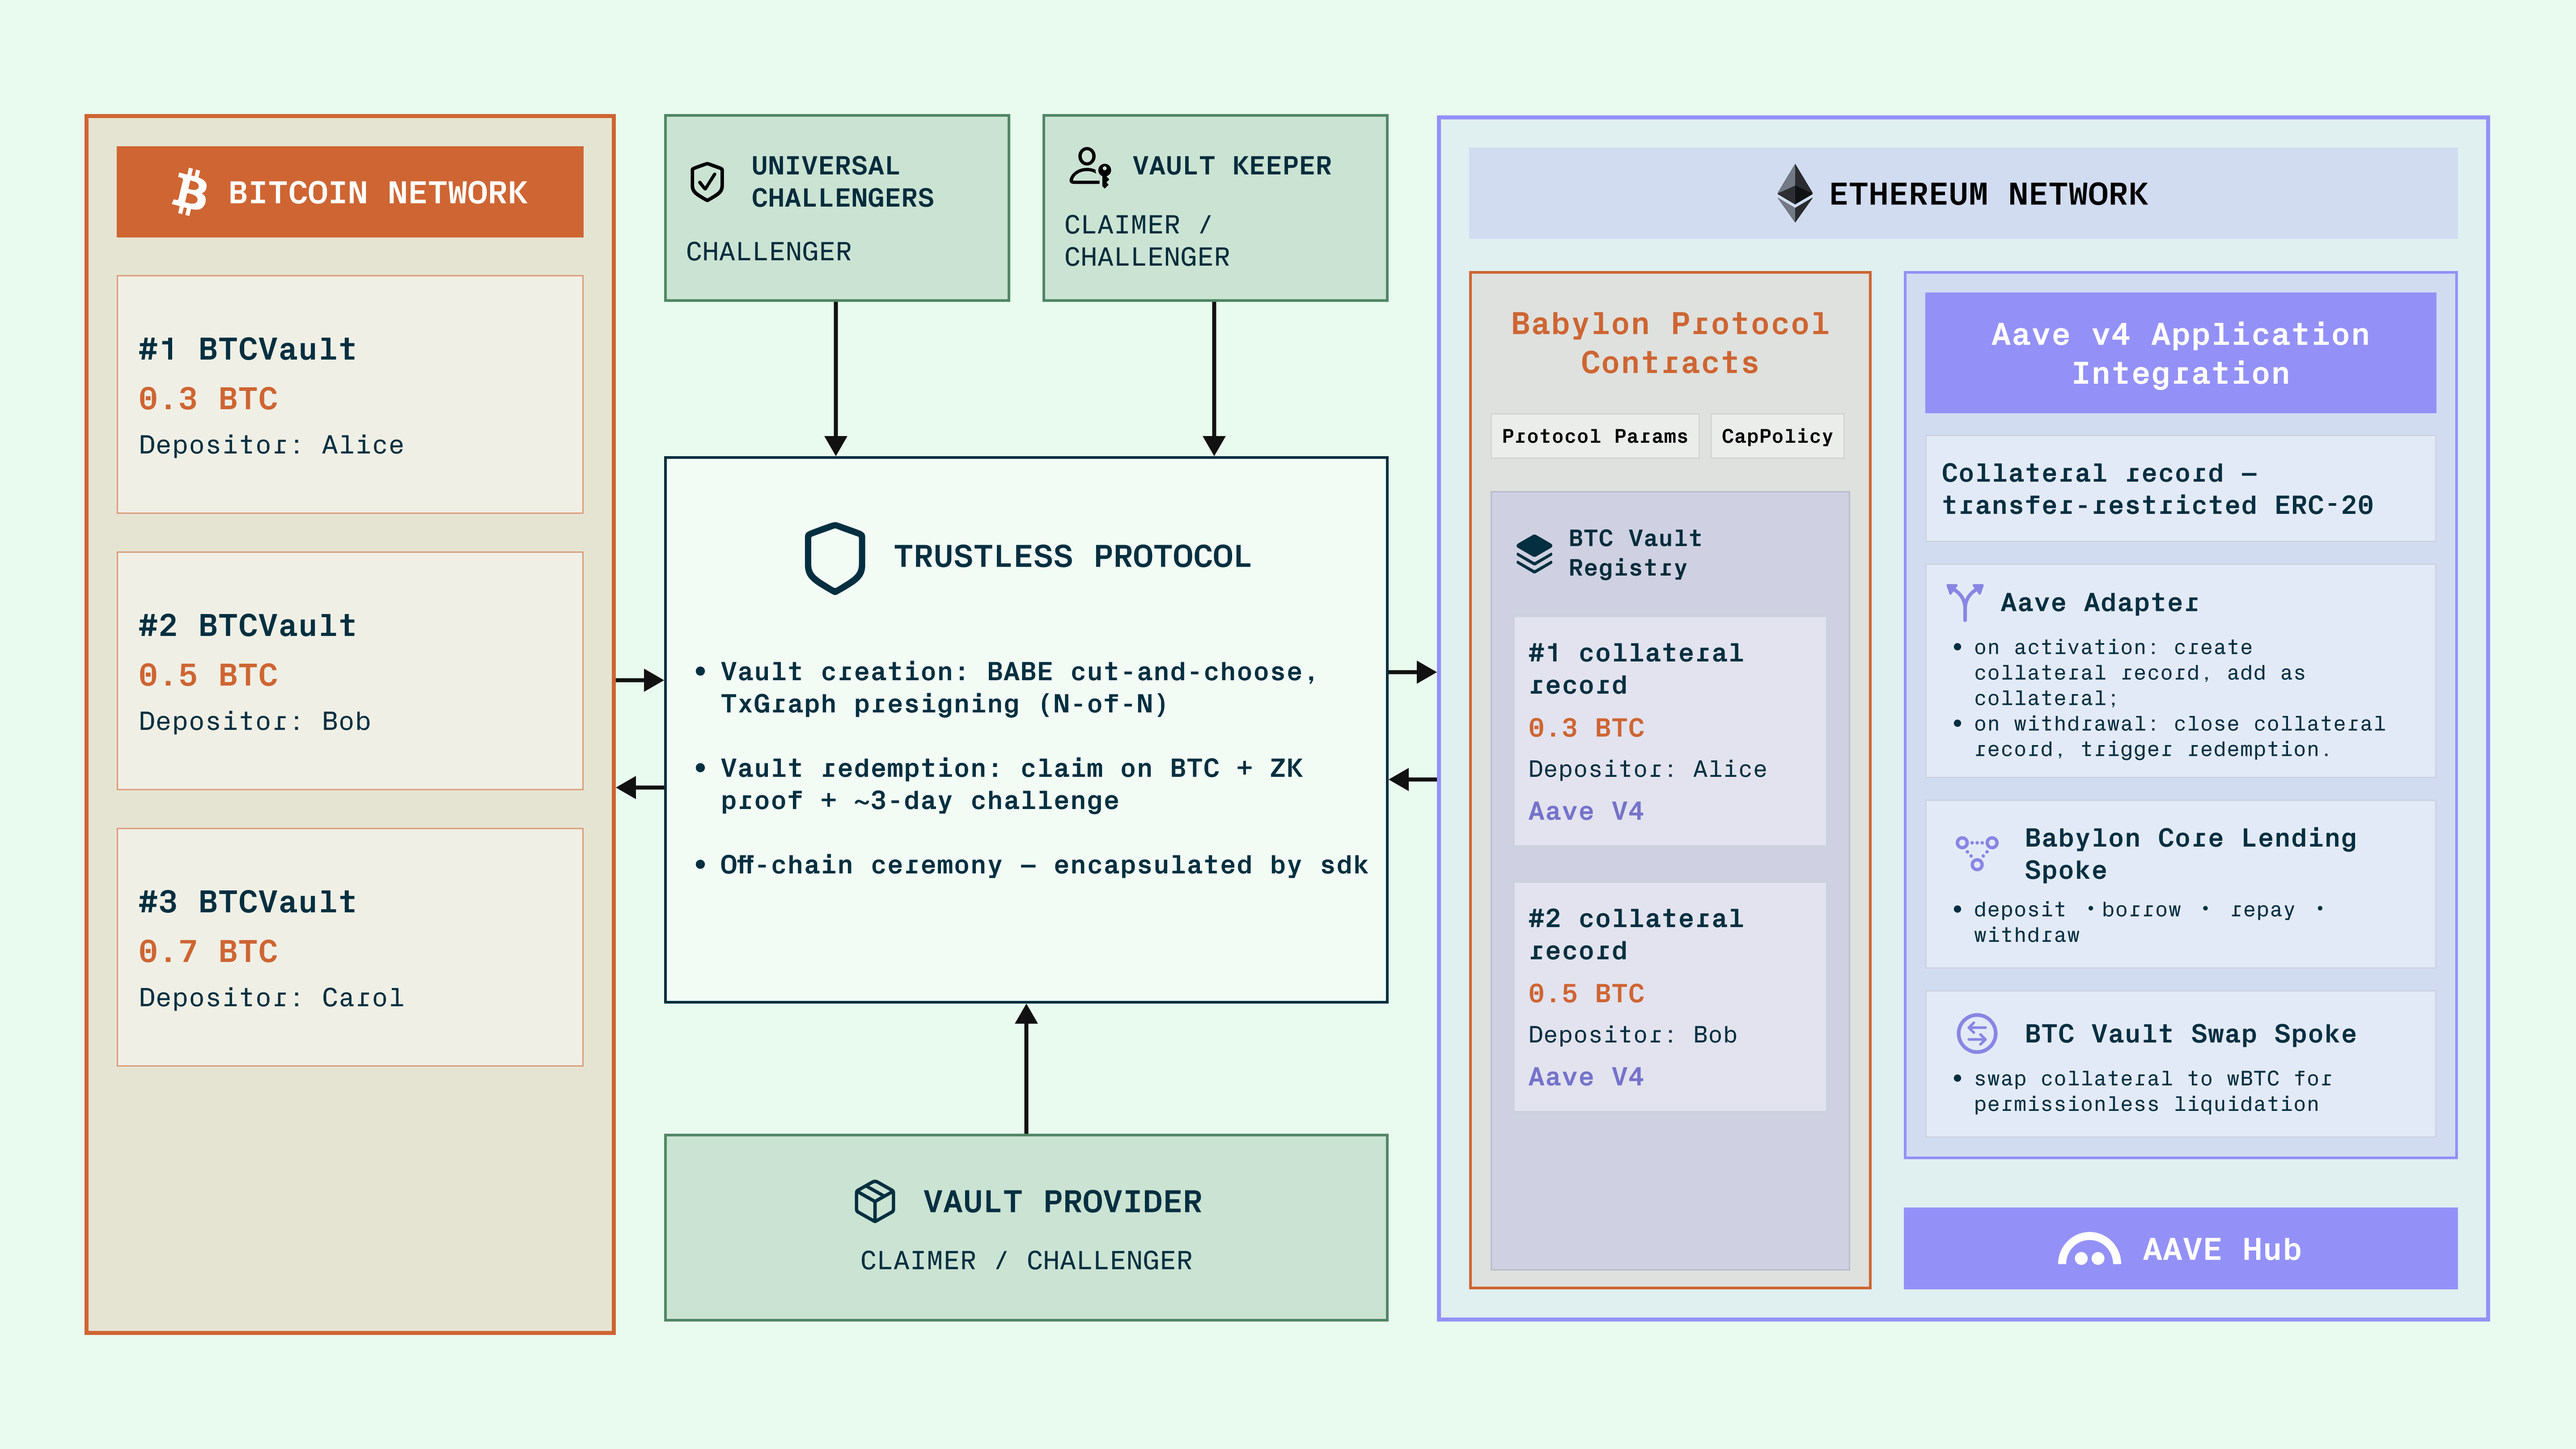
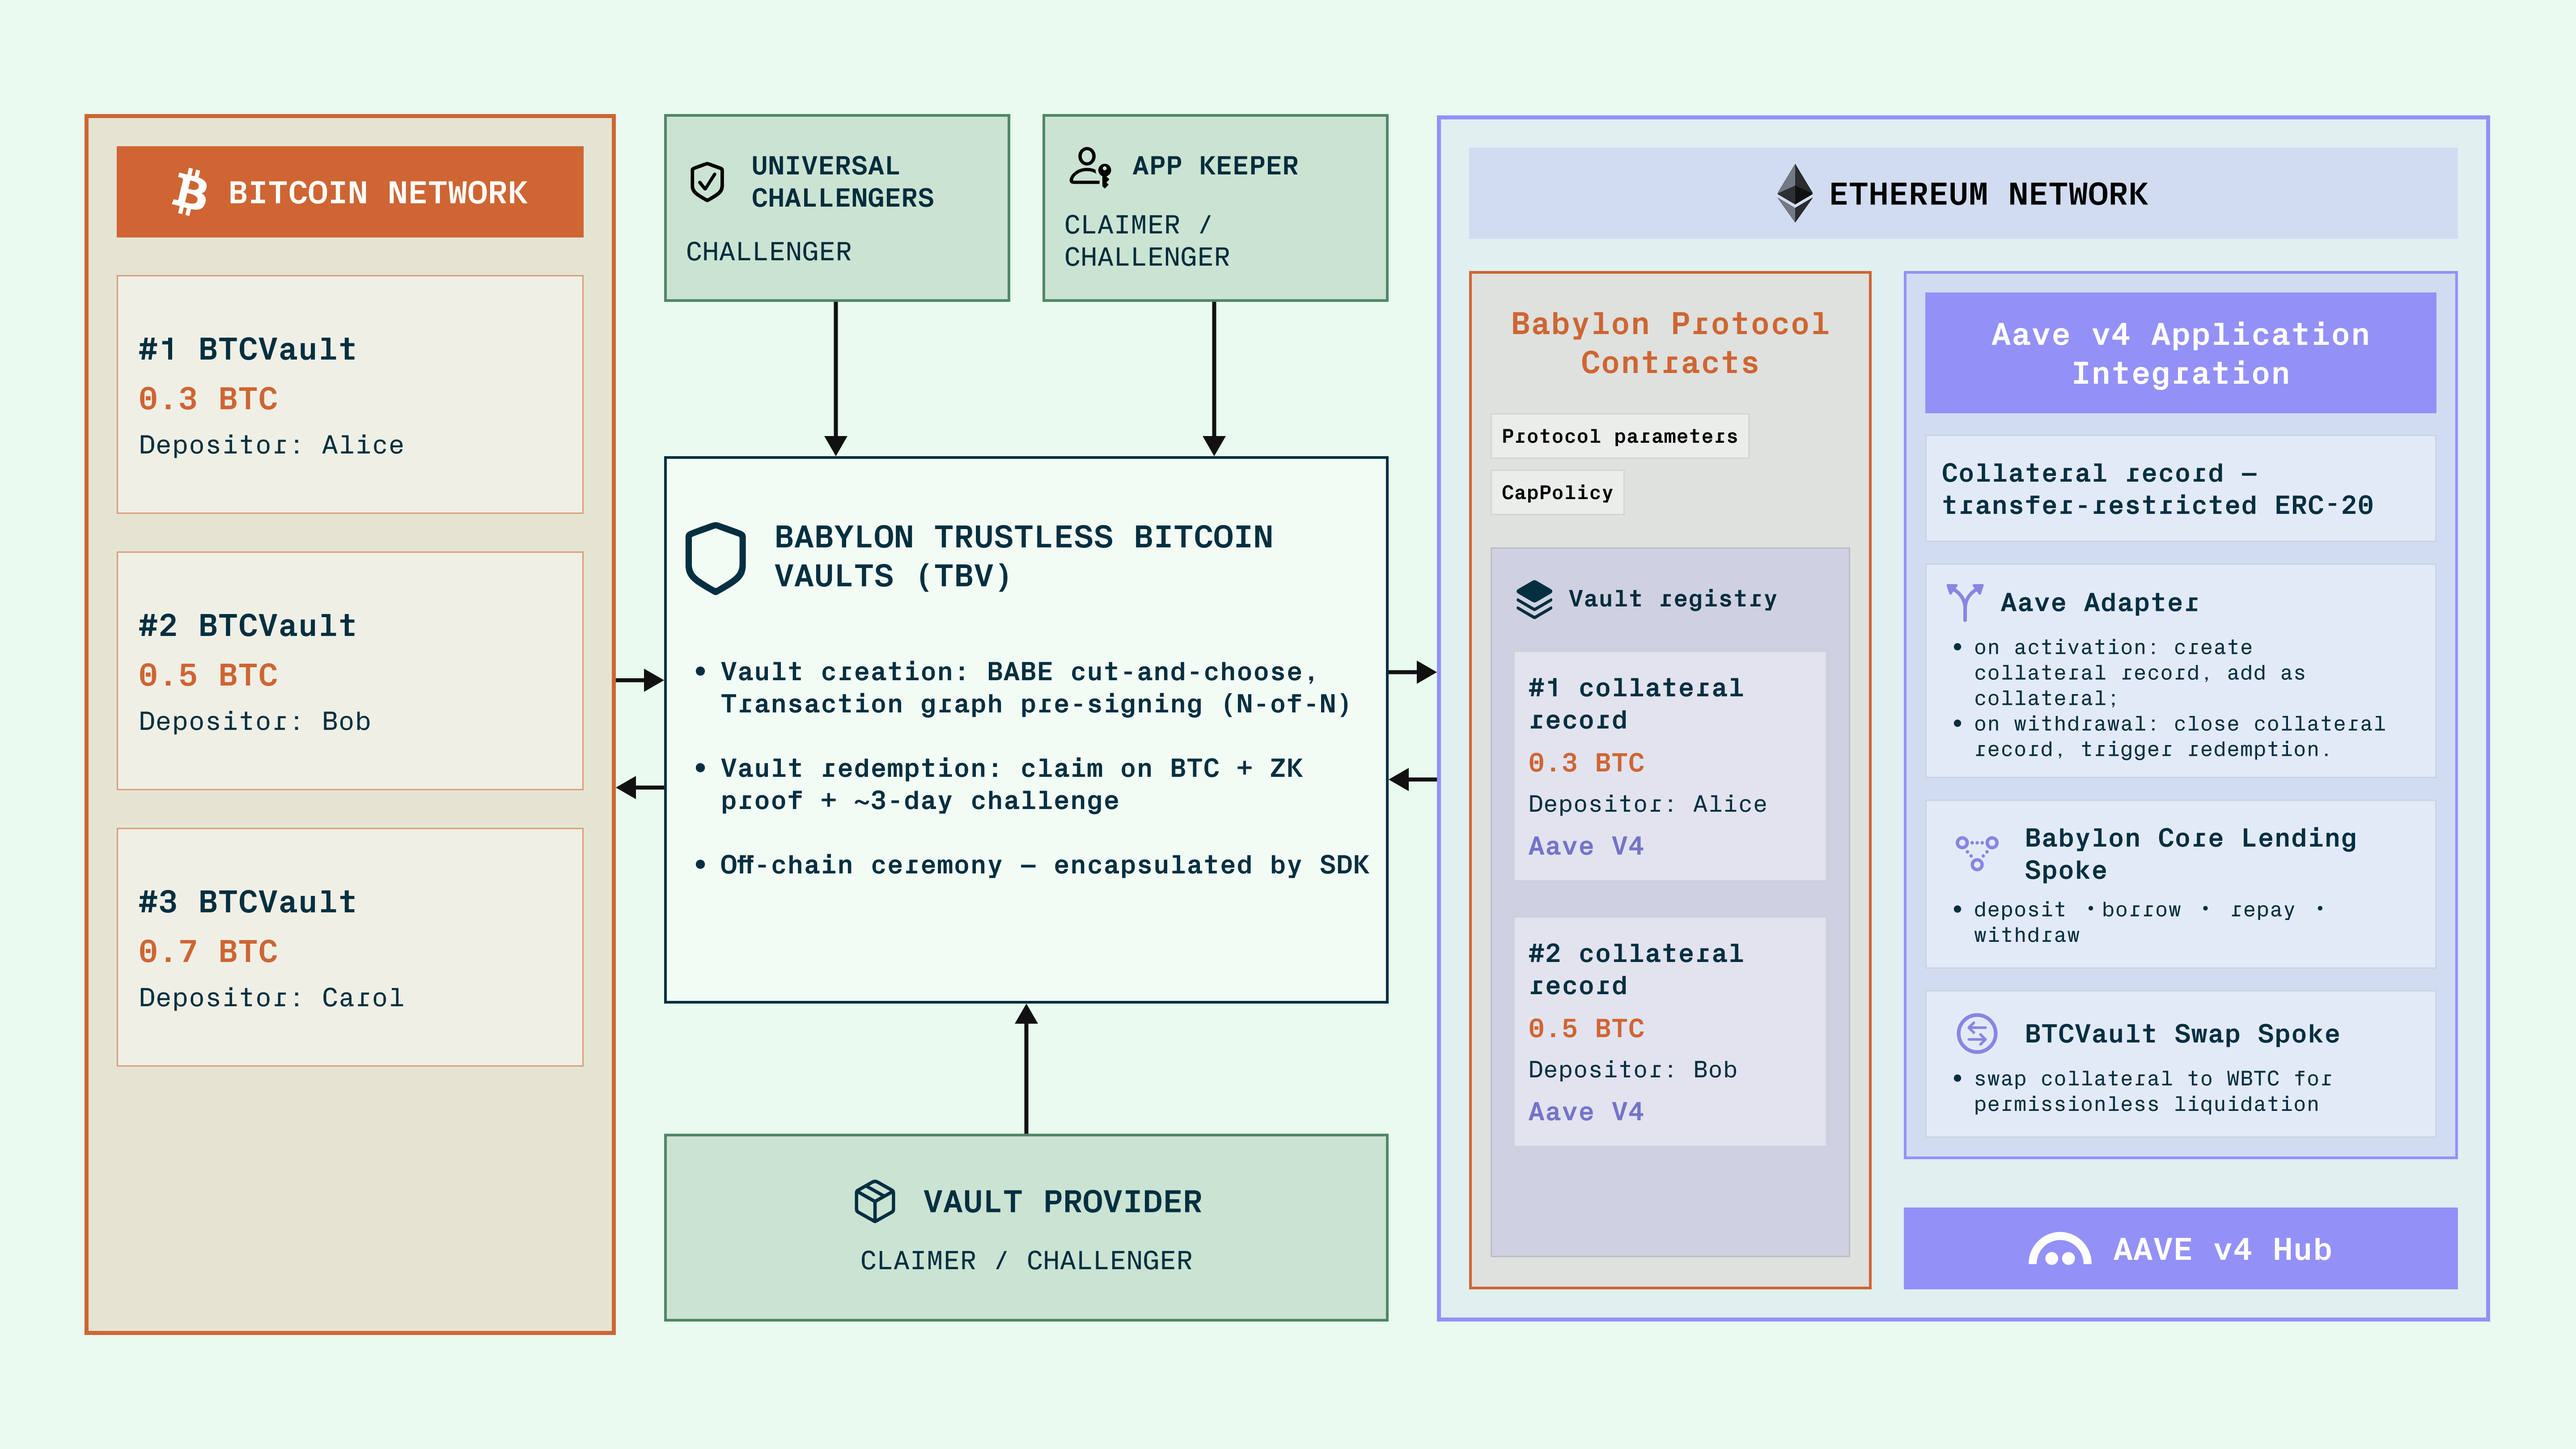
docs(tbv): align terminology and glossary with the TBV brand reference (#462)
* docs(tbv): refresh terminology branch on current main

* docs(tbv): address PR462 review findings

diff --git a/docusaurus.config.js b/docusaurus.config.js
@@ -115,7 +115,7 @@ const plugins = [
           from: '/guides/baby_stakers/baby_staking_tools/',
           to: '/stakers/baby_stakers/',
         },
-        // Old Bitcoin Vault overview page → Trustless Bitcoin Vault Start Here
+        // Old Bitcoin Vault overview page → Trustless Bitcoin Vaults Start Here
         {
           from: '/guides/overview/bitcoin-vault/',
           to: '/trustless-bitcoin-vault/start-here/what-is-tbv/',
@@ -473,7 +473,7 @@ const config = {
         },
         items: [
           {
-            label: 'Trustless Bitcoin Vault',
+            label: 'Trustless Bitcoin Vaults',
             to: '/trustless-bitcoin-vault/start-here/what-is-tbv/',
             className: 'trustless-bitcoin-vault-top-header',
           },
@@ -483,7 +483,7 @@ const config = {
             className: 'guides-top-header',
           },
           // The top-level "API" dropdown was removed: each product section now owns
-          // its own APIs. The Trustless Bitcoin Vault sidebar carries the Vault
+          // its own APIs. The Trustless Bitcoin Vaults sidebar carries the Vault
           // Indexer API, and the Bitcoin Staking sidebar carries the Staking API,
           // Babylon gRPC and CometBFT. No page URLs changed, so no redirects are
           // needed — only the navigation moved.

diff --git a/src/components/tbv/content.ts b/src/components/tbv/content.ts
@@ -32,7 +32,7 @@ export const PRODUCTS: Product[] = [
     title: 'TBV Testnet docs',
     link: '/trustless-bitcoin-vault/start-here/what-is-tbv/',
     icon: DiversityRegular,
-    text: 'Start with the open Testnet documentation for Babylon Trustless Bitcoin Vault and the Aave v4 lending integration.',
+    text: 'Start with the open Testnet documentation for Babylon Trustless Bitcoin Vaults and the Aave v4 lending integration.',
   },
   {
     title: 'Create a vault',
@@ -57,7 +57,7 @@ export type Guide = {
 
 export const guides: Guide[] = [
   {
-    title: 'Trustless Bitcoin Vault',
+    title: 'Trustless Bitcoin Vaults',
     icon: ShieldCheckmarkRegular,
     text: 'Native Bitcoin collateral for Ethereum DeFi, with BTC remaining locked on Bitcoin.',
     link: '/trustless-bitcoin-vault/start-here/what-is-tbv/',

diff --git a/src/components/tbv/Faq.tsx b/src/components/tbv/Faq.tsx
@@ -108,7 +108,7 @@ const ITEMS: Item[] = [
           exists.
         </p>
         <p className="mb-3">
-          <strong>Trustless Bitcoin Vault</strong> puts BTC to work as
+          <strong>Trustless Bitcoin Vaults</strong> put BTC to work as
           collateral. A lending market on another chain treats it as backing for
           a loan, so you take on debt, a borrow rate and liquidation risk, and
           you earn no staking reward for it.

diff --git a/src/components/tbv/routes.ts b/src/components/tbv/routes.ts
@@ -5,7 +5,7 @@
  * so a wrong route fails the production build rather than shipping a 404.
  */
 export const ROUTES = {
-  // Trustless Bitcoin Vault
+  // Trustless Bitcoin Vaults
   whatIsTbv: '/trustless-bitcoin-vault/start-here/what-is-tbv/',
   howItWorks: '/trustless-bitcoin-vault/start-here/how-it-works/',
   safety: '/trustless-bitcoin-vault/start-here/safety-and-trust-assumptions/',

diff --git a/src/components/tbv/AskHero.tsx b/src/components/tbv/AskHero.tsx
@@ -20,8 +20,8 @@ type Command = { name: string; hint: string; question: string };
 const COMMANDS: Command[] = [
   {
     name: '/vault',
-    hint: 'What a Trustless Bitcoin Vault is',
-    question: 'What is a Trustless Bitcoin Vault?',
+    hint: 'What Babylon Trustless Bitcoin Vaults are',
+    question: 'What are Babylon Trustless Bitcoin Vaults?',
   },
   {
     name: '/create',

diff --git a/sidebars-default.js b/sidebars-default.js
@@ -276,7 +276,7 @@ const sidebars = {
       ],
     },
   ],
-  // Trustless Bitcoin Vault sidebar — top-nav home for the open Testnet docs
+  // Trustless Bitcoin Vaults sidebar — top-nav home for the open Testnet docs
   trustlessBitcoinVault: [
     {
       type: 'category',
